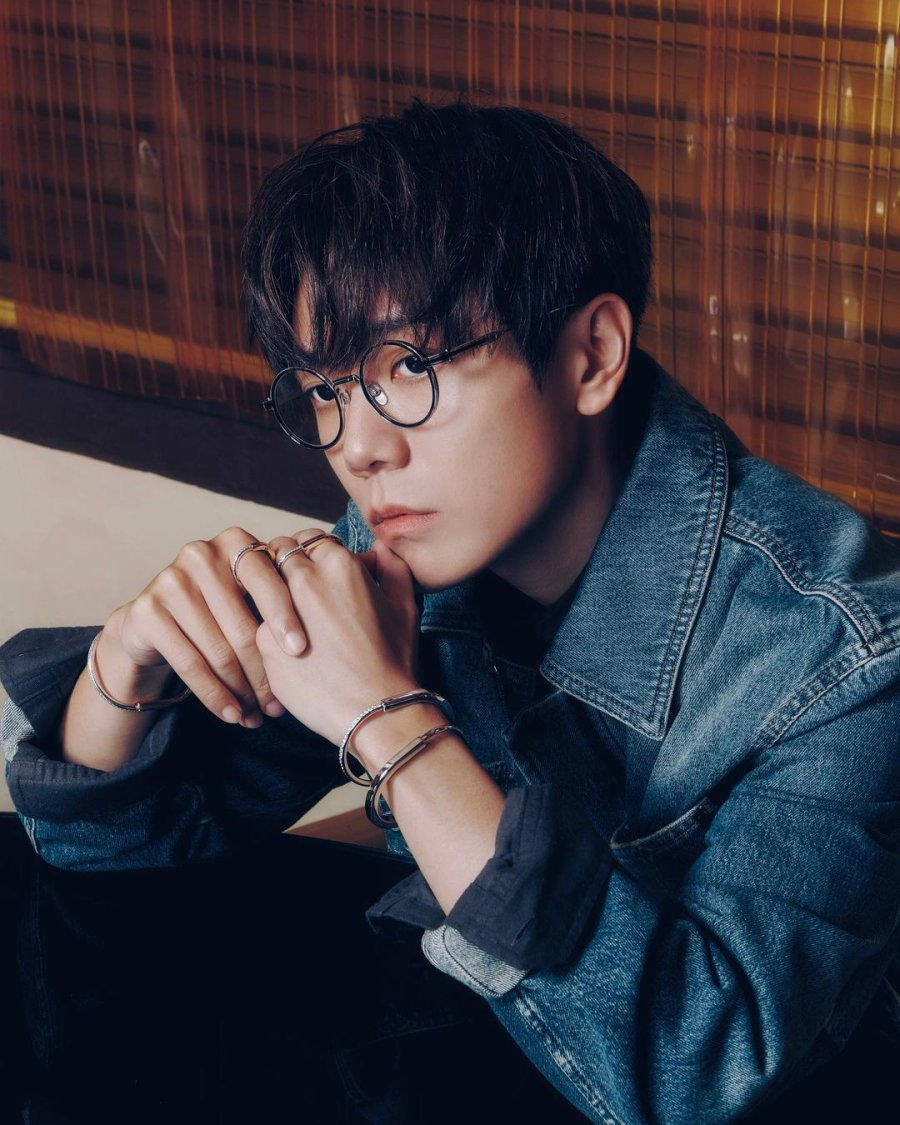
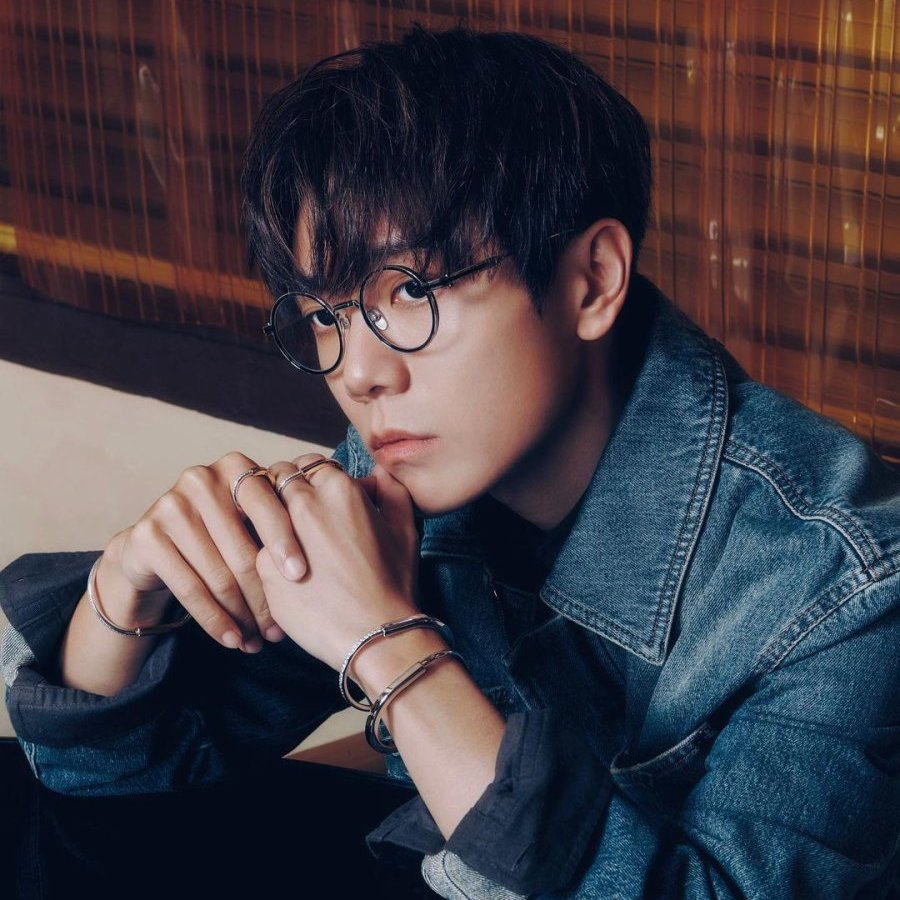
add image of 4 celebrities in second section

diff --git a/index.html b/index.html
@@ -33,24 +33,27 @@
             </div>
         </div>
         <div class="section-2">
-            <div class="title">Some random information.</div>
+            <div class="title">Special Guests</div>
             <div class="gallery">
                 <div class="cards">
                     <!-- https://mydramalist.com/people/124435-terence-lam -->
-                    <div class="icon"></div>
-                    <div class="description">this is some subtext under an illustration or image</div>
+                    <div class="icon"><img class="head" alt="Image of Terence Lam" src="terence.jpeg"></div>
+                    <div class="description">Terence</div>
                 </div>
+                <!-- https://faekoo.tumblr.com/post/676164929691222016/taeyeon-invu-mv-icons -->
                 <div class="cards">
-                    <div class="icon"></div>
-                    <div class="description">this is some subtext under an illustration or image</div>
+                    <div class="icon"><img class="head" alt="image of Kim Taeyong" src="taeyong_2.jpeg"></div>
+                    <div class="description">Taeyong</div>
                 </div>
+                <!-- https://www.reddit.com/r/kpop/comments/16ccna9/super_junior_kyuhyun_kyuhyuns_second_profile/ -->
                 <div class="cards">
-                    <div class="icon"></div>
-                    <div class="description">this is some subtext under an illustration or image</div>
+                    <div class="icon"><img class="head" alt="image of Cho Kyuhyun" src="kyuhyun.jpeg"></div>
+                    <div class="description">Kyuhyun</div>
                 </div>
+                <!-- https://br.pinterest.com/pin/615233999096573511/ -->
                 <div class="cards">
-                    <div class="icon"></div>
-                    <div class="description">this is some subtext under an illustration or image</div>
+                    <div class="icon"><img class="head" alt="Image of Kim Soohyun" src="kimsoohyun.jpeg"></div>
+                    <div class="description">Soohyun</div>
                 </div>
             </div>
         </div>

diff --git a/styles.css b/styles.css
@@ -92,7 +92,7 @@ a.logo {
 
 img.hins{
     min-width: 500px;
-    flex-shrink: 0 0 500px;
+    flex: 0 0 500px;
 }
 
 button {
@@ -134,9 +134,14 @@ button {
 
 .icon {
     aspect-ratio: 1 / 1;
+    flex: 0 0 140px;
     width: 140px;
     border: solid 4px #3882F6;
     border-radius: 8px;
+    overflow: hidden;
+    display: flex;
+    justify-content: center;
+    align-items: center;
 }
 
 .description {
@@ -200,4 +205,19 @@ footer {
     align-items: center;
     padding: 22px;
     color: #F9FAF8;
+}
+
+.head {
+    /* height: 100%;
+    width: 100%;
+    object-fit: cover; */
+
+    /* width: 100%;
+    max-height: 100%;
+    display: block;
+    margin: auto; */
+
+    width: 140px;
+    height: auto;
+    object-fit: cover;
 }
